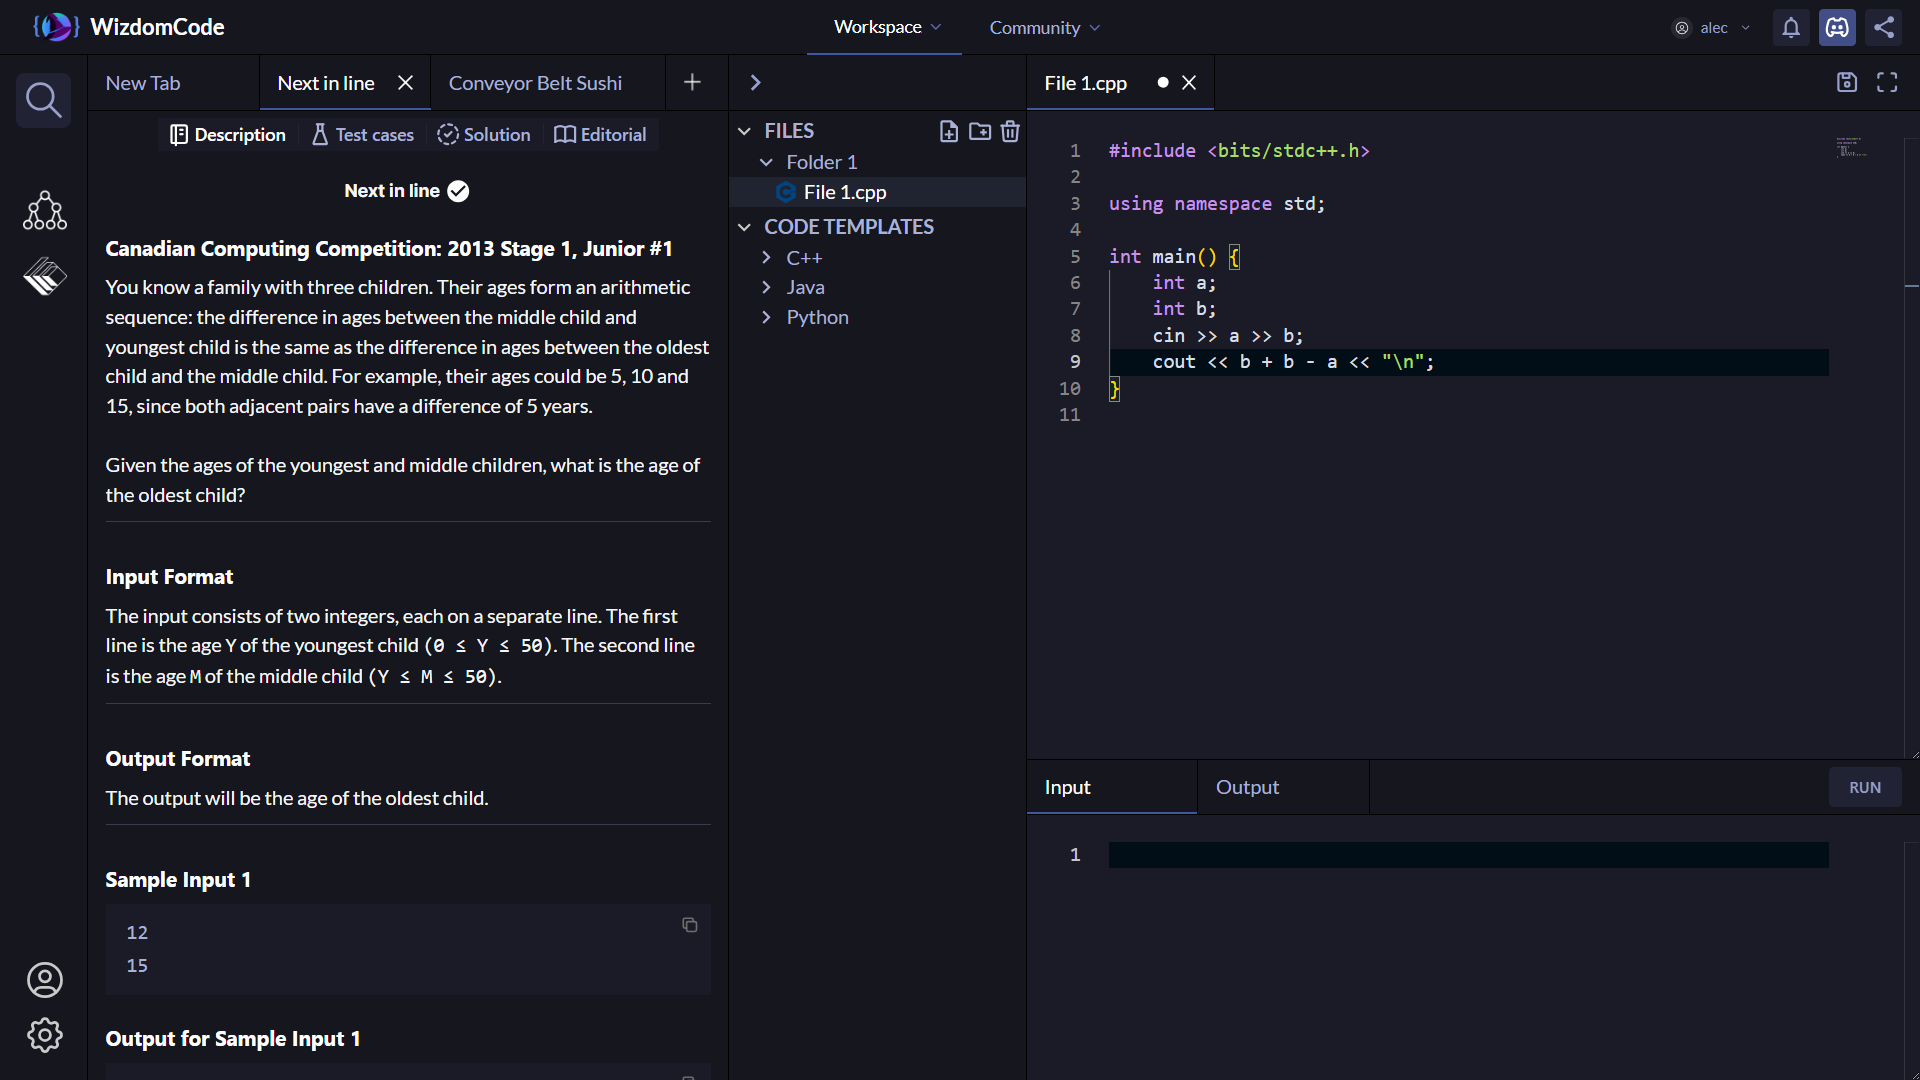
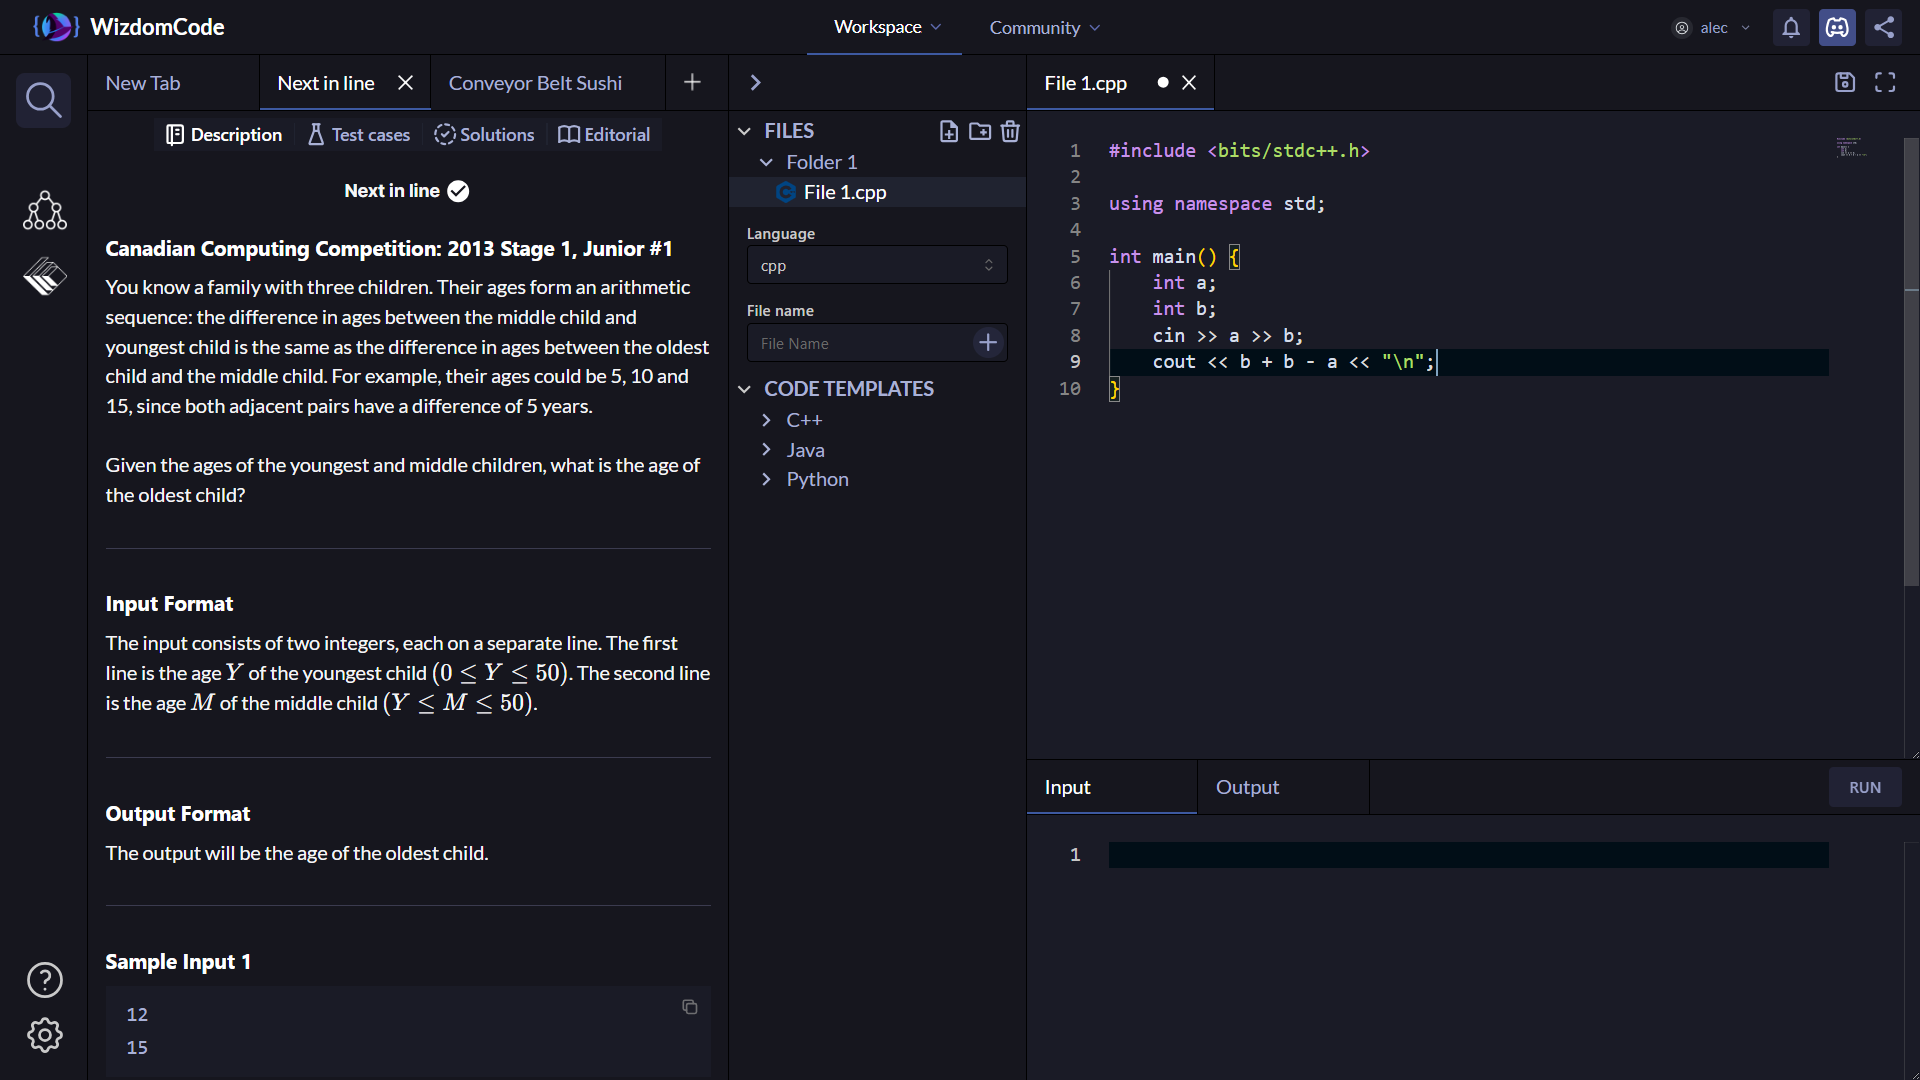
Landing page update

diff --git a/compweb/src/components/Workspace/ProblemDescription/IDE.jsx b/compweb/src/components/Workspace/ProblemDescription/IDE.jsx
@@ -733,7 +733,7 @@ int main() {
               <div style={{ width: '1px', height: '20px', backgroundColor: 'var(--selected-item)' }} />
               <Button style={{ color: selectedTab === 'tests' ? 'white' : 'var(--dim-text)' }} size="compact-md" variant="subtle" leftSection={<IconFlask style={{ marginRight: '-8' }}/>} onClick={() => setSelectedTab('tests')}>Test cases</Button>
               <div style={{ width: '1px', height: '20px', backgroundColor: 'var(--selected-item)' }} />
-              <Button style={{ color: selectedTab === 'solution' ? 'white' : 'var(--dim-text)' }} size="compact-md" variant="subtle" leftSection={<IconCircleDashedCheck style={{ marginRight: '-8' }}/>} onClick={() => setSelectedTab('solution')}>Solution</Button>
+              <Button style={{ color: selectedTab === 'solution' ? 'white' : 'var(--dim-text)' }} size="compact-md" variant="subtle" leftSection={<IconCircleDashedCheck style={{ marginRight: '-8' }}/>} onClick={() => setSelectedTab('solution')}>Solutions</Button>
               <div style={{ width: '1px', height: '20px', backgroundColor: 'var(--selected-item)' }} />
               <Button style={{ color: selectedTab === 'editorial' ? 'white' : 'var(--dim-text)' }} size="compact-md" variant="subtle" leftSection={<IconBook style={{ marginRight: '-8' }}/>} onClick={() => setSelectedTab('editorial')}>Editorial</Button>
             </Group>
